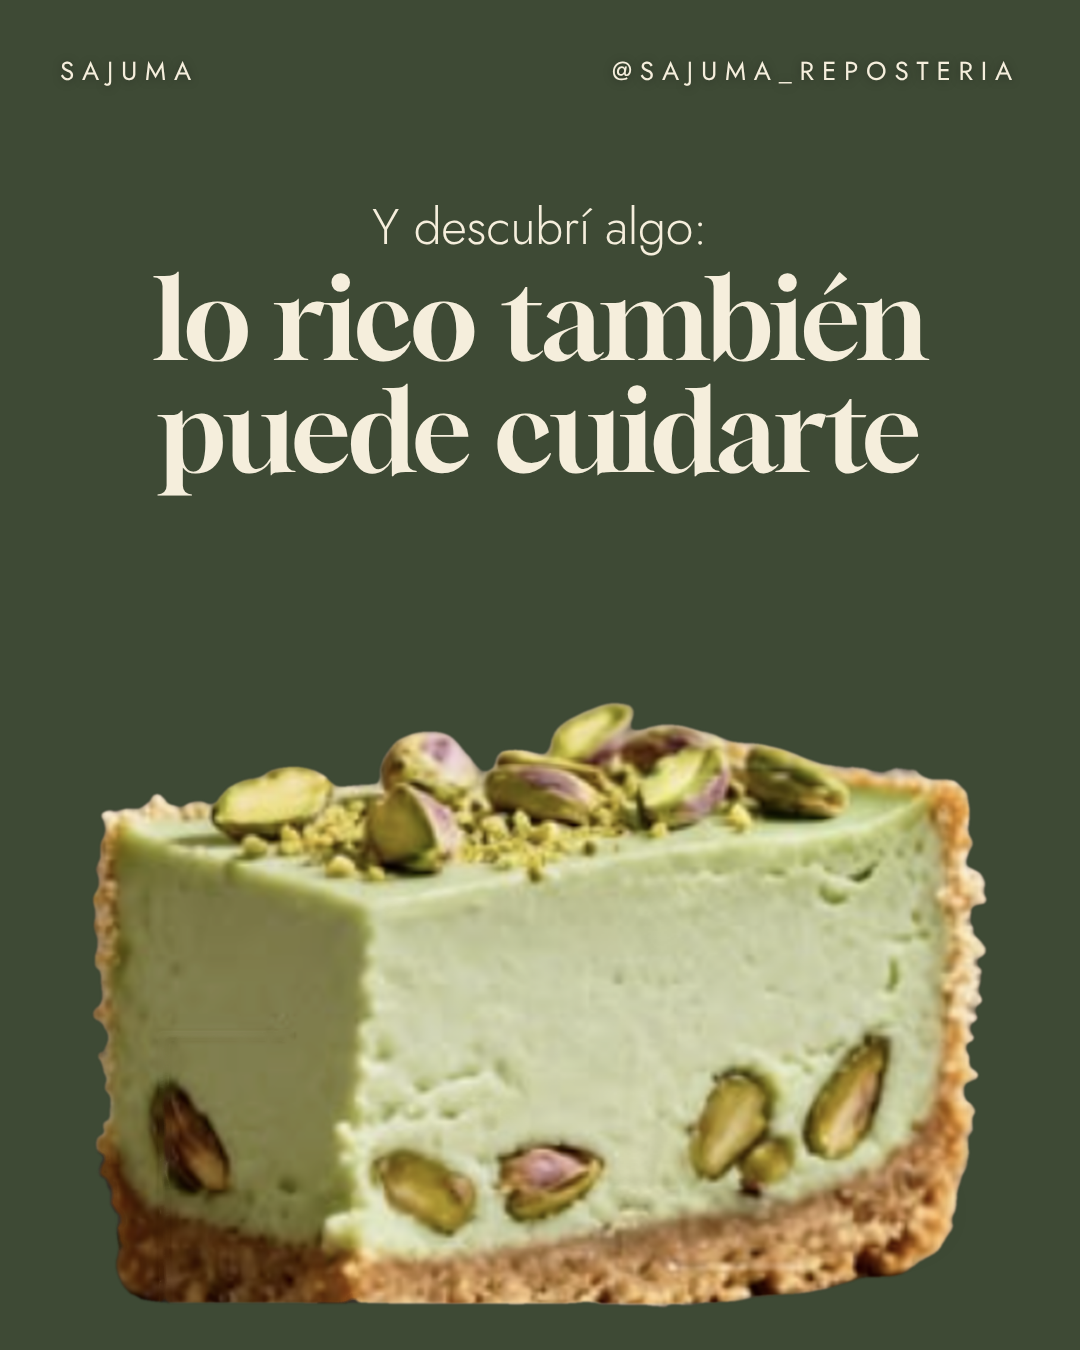
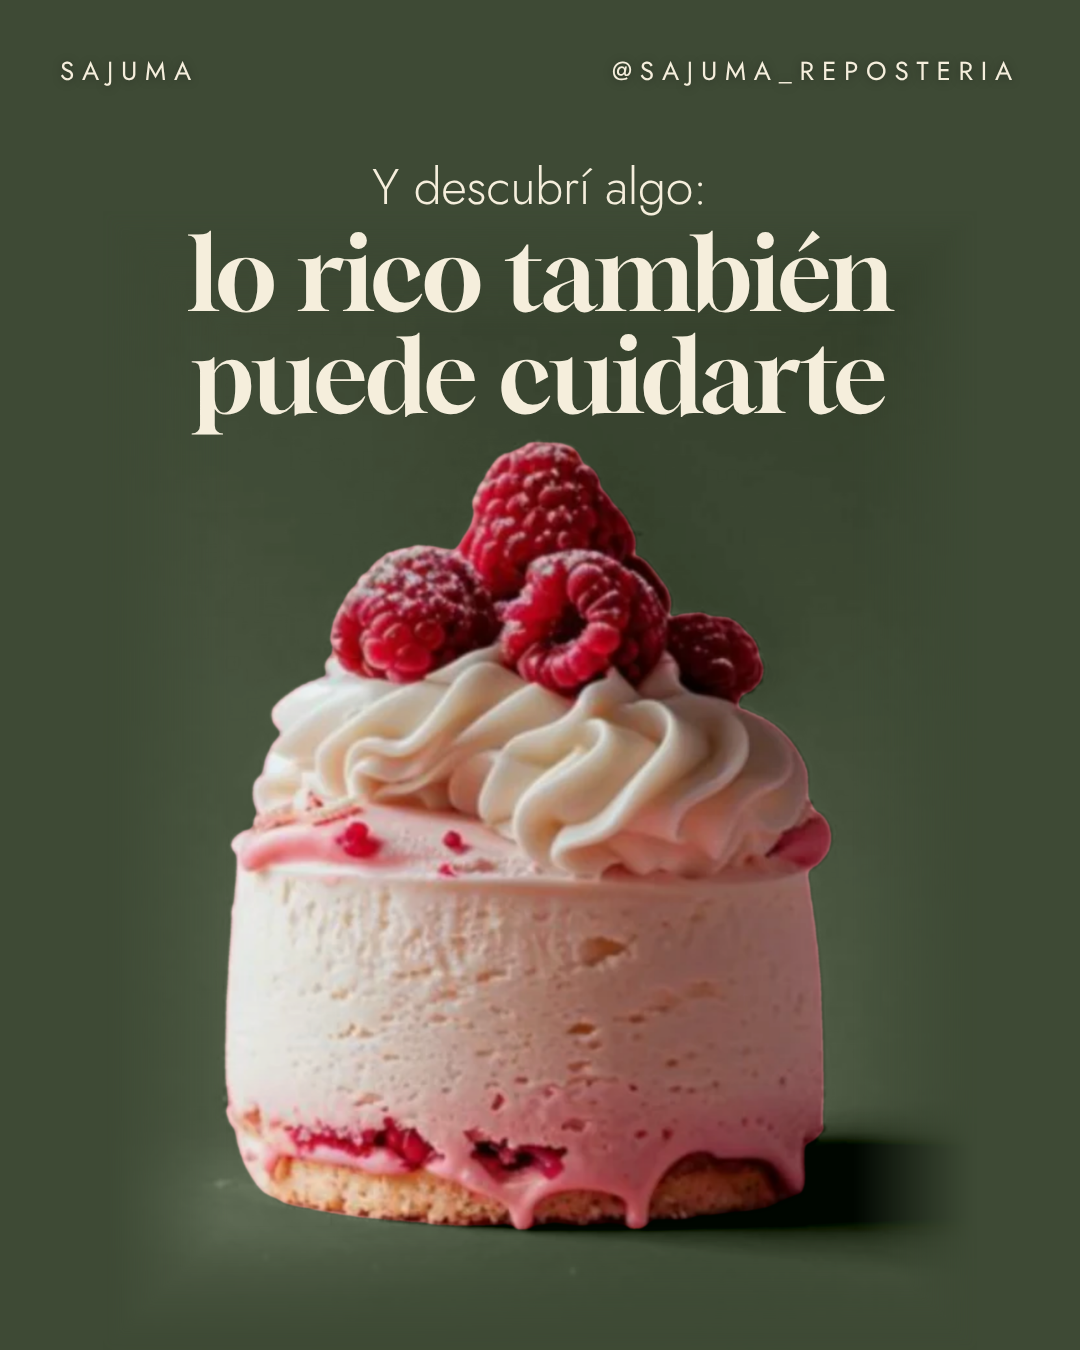
SAJUMA carrusel 1, pieza 5: foto original de frambuesas con la pared cambiada a verde
Claude-Session: https://claude.ai/code/session_018d4LXHkXweDJXxfN5x99dL

diff --git a/carruseles/sajuma-1-todo-empezo-en-mi-cocina/carrusel.html b/carruseles/sajuma-1-todo-empezo-en-mi-cocina/carrusel.html
@@ -21,11 +21,9 @@ body{background:#222;display:flex;flex-direction:column;align-items:center;gap:4
 </style></head><body><section class="slide" style="background:#3E4A35;color:#F5EEDC"><div class="photo" style="height:1350px;background-image:url(img/p1-fondo.jpg)"></div><div class="brand" style="color:#F5EEDC"><span>SAJUMA</span><span>@SAJUMA_REPOSTERIA</span></div>
 <div class="intro" style="top:190px;text-shadow:0 2px 16px rgba(0,0,0,.35)">Todo empezó con una pregunta…</div>
 <div class="big" style="top:255px;font-size:150px;text-shadow:0 3px 26px rgba(0,0,0,.35)">¿se lo<br>daría a<br>mis hijos?</div>
-<div class="cap" style="bottom:36px;font-size:26px;text-shadow:0 2px 12px rgba(0,0,0,.6)">DESLIZA →</div></section><section class="slide" style="background:#2a1d14"><div class="photo" style="height:1350px;background-image:url(img/full-02-familia.jpg)"></div><div class="scrim"></div><div class="topscrim"></div><div class="brand" style="color:#F5EEDC"><span>SAJUMA</span><span>@SAJUMA_REPOSTERIA</span></div><div class="over"><div class="g" style="font-size:150px">Soy Miryam.</div><div class="t1" style="font-size:60px;margin-top:14px">Mamá antes que pastelera.</div></div></section><section class="slide" style="background:#2a1d14"><div class="photo" style="height:1350px;background-image:url(img/full-03-mesa-familiar.jpg)"></div><div class="scrim"></div><div class="topscrim"></div><div class="brand" style="color:#F5EEDC"><span>SAJUMA</span><span>@SAJUMA_REPOSTERIA</span></div><div class="over"><div class="t1" style="font-size:62px">Quería que en casa celebráramos con postre… sin descuidar lo que más amo: su salud.</div></div></section><section class="slide" style="background:#2a1d14"><div class="photo" style="height:1350px;background-image:url(img/full-04-ingredientes.jpg)"></div><div class="scrim"></div><div class="topscrim"></div><div class="brand" style="color:#F5EEDC"><span>SAJUMA</span><span>@SAJUMA_REPOSTERIA</span></div><div class="over"><div class="t1" style="font-size:58px">Así que empecé a cambiar ingredientes.</div><div class="g" style="font-size:150px;margin-top:10px">uno por uno.</div></div></section><section class="slide" style="background:#3E4A35;color:#F5EEDC"><div class="brand" style="color:#F5EEDC"><span>SAJUMA</span><span>@SAJUMA_REPOSTERIA</span></div>
-<div class="intro" style="top:190px;font-size:50px">Y descubrí algo:</div>
-<div class="big" style="top:262px;font-size:112px;line-height:1">lo rico también<br>puede cuidarte</div>
-<div class="shadow" style="left:150px;top:1180px;width:780px;opacity:.6"></div>
-<img class="hero" src="img/cheesecake-pistacho.png" style="left:90px;top:700px;width:900px"></section><section class="slide" style="background:#3E4A35;color:#F5EEDC"><img class="hero" src="img/cupcake-mano-verde-fade.png" style="left:201px;top:0;width:677px;z-index:1"><div class="brand" style="color:#F5EEDC"><span>SAJUMA</span><span>@SAJUMA_REPOSTERIA</span></div>
+<div class="cap" style="bottom:36px;font-size:26px;text-shadow:0 2px 12px rgba(0,0,0,.6)">DESLIZA →</div></section><section class="slide" style="background:#2a1d14"><div class="photo" style="height:1350px;background-image:url(img/full-02-familia.jpg)"></div><div class="scrim"></div><div class="topscrim"></div><div class="brand" style="color:#F5EEDC"><span>SAJUMA</span><span>@SAJUMA_REPOSTERIA</span></div><div class="over"><div class="g" style="font-size:150px">Soy Miryam.</div><div class="t1" style="font-size:60px;margin-top:14px">Mamá antes que pastelera.</div></div></section><section class="slide" style="background:#2a1d14"><div class="photo" style="height:1350px;background-image:url(img/full-03-mesa-familiar.jpg)"></div><div class="scrim"></div><div class="topscrim"></div><div class="brand" style="color:#F5EEDC"><span>SAJUMA</span><span>@SAJUMA_REPOSTERIA</span></div><div class="over"><div class="t1" style="font-size:62px">Quería que en casa celebráramos con postre… sin descuidar lo que más amo: su salud.</div></div></section><section class="slide" style="background:#2a1d14"><div class="photo" style="height:1350px;background-image:url(img/full-04-ingredientes.jpg)"></div><div class="scrim"></div><div class="topscrim"></div><div class="brand" style="color:#F5EEDC"><span>SAJUMA</span><span>@SAJUMA_REPOSTERIA</span></div><div class="over"><div class="t1" style="font-size:58px">Así que empecé a cambiar ingredientes.</div><div class="g" style="font-size:150px;margin-top:10px">uno por uno.</div></div></section><section class="slide" style="background:#3E4A35;color:#F5EEDC"><img class="hero" src="img/p5-frambuesa.png" style="left:103px;top:211px;width:874px;z-index:1"><div class="brand" style="color:#F5EEDC"><span>SAJUMA</span><span>@SAJUMA_REPOSTERIA</span></div>
+<div class="intro" style="top:150px;font-size:50px">Y descubrí algo:</div>
+<div class="big" style="top:222px;font-size:102px;line-height:1;z-index:4">lo rico también<br>puede cuidarte</div></section><section class="slide" style="background:#3E4A35;color:#F5EEDC"><img class="hero" src="img/cupcake-mano-verde-fade.png" style="left:201px;top:0;width:677px;z-index:1"><div class="brand" style="color:#F5EEDC"><span>SAJUMA</span><span>@SAJUMA_REPOSTERIA</span></div>
 <div class="over" style="bottom:90px"><div class="t1" style="font-size:62px">Si era bueno para mi familia, podía ser bueno para la tuya.</div></div></section><section class="slide" style="background:#F5EEDC;color:#3E4A35"><div class="brand" style="color:#3E4A35"><span>SAJUMA</span><span>@SAJUMA_REPOSTERIA</span></div>
 <div class="intro" style="top:330px;font-size:60px;color:#2a2a24">Así nació</div>
 <img src="ref/sajuma-logo-transparente.png" style="position:absolute;left:150px;top:440px;width:780px">

diff --git a/carruseles/sajuma-1-todo-empezo-en-mi-cocina/p5_fondo.py b/carruseles/sajuma-1-todo-empezo-en-mi-cocina/p5_fondo.py
@@ -1,0 +1,26 @@
+"""Pieza 5: cambia SOLO la pared rosada de ref/pieza5-frambuesa.webp a verde olivo (luz y sombra originales) -> img/p5-frambuesa.png (bordes difuminados al verde)"""
+import numpy as np, cv2, os
+from PIL import Image
+from rembg import remove, new_session
+os.chdir(os.path.dirname(os.path.abspath(__file__)))
+SR='/tmp/claude-0/-home-user/a313ded0-1d40-59bc-812f-5f47f2864937/scratchpad/sr/EDSR_x4.pb'
+im=Image.open('ref/pieza5-frambuesa.webp').convert('RGB'); src=cv2.cvtColor(np.array(im),cv2.COLOR_RGB2BGR)
+sr=cv2.dnn_superres.DnnSuperResImpl_create(); sr.readModel(SR); sr.setModel('edsr',4)
+big=sr.upsample(src); H,W=big.shape[:2]
+al=np.array(remove(Image.fromarray(cv2.cvtColor(big,cv2.COLOR_BGR2RGB)),session=new_session('u2net')))[...,3]>128
+n,lab,st,_=cv2.connectedComponentsWithStats(al.astype(np.uint8)); cake=(lab==(np.argmax(st[1:,4])+1)).astype(np.uint8)
+cake=cv2.morphologyEx(cake,cv2.MORPH_CLOSE,np.ones((9,9),np.uint8))
+pm=cv2.GaussianBlur(cake.astype(np.float32),(0,0),2.2)[...,None]
+lab=cv2.cvtColor(big,cv2.COLOR_BGR2LAB).astype(np.float32)
+Lm=lab[...,0][cake==0].mean()
+tgt=cv2.cvtColor(np.uint8([[[53,74,62]]]),cv2.COLOR_BGR2LAB)[0,0].astype(np.float32)     # #3E4A35
+new=lab.copy(); new[...,0]=tgt[0]+(lab[...,0]-Lm)*0.9; new[...,1]=tgt[1]; new[...,2]=tgt[2]
+rec=cv2.cvtColor(np.clip(new,0,255).astype(np.uint8),cv2.COLOR_LAB2BGR).astype(np.float32)
+out=np.clip(big.astype(np.float32)*pm+rec*(1-pm),0,255).astype(np.uint8)
+# alfa: bordes que se funden con el verde de la slide
+a=np.ones((H,W),np.float32); F=int(W*0.14)
+for i in range(F):
+    t=(i/F)**1.2; a[i,:]=np.minimum(a[i,:],t); a[:,i]=np.minimum(a[:,i],t); a[:,W-1-i]=np.minimum(a[:,W-1-i],t); a[H-1-i,:]=np.minimum(a[H-1-i,:],t)
+a=cv2.GaussianBlur(a,(0,0),8)
+cv2.imwrite('img/p5-frambuesa.png',np.dstack([out,(a*255).astype(np.uint8)]))
+cv2.imwrite('/tmp/claude-0/-home-user/a313ded0-1d40-59bc-812f-5f47f2864937/scratchpad/p5-prev.png',cv2.resize(out,(W//4,H//4)))

diff --git a/carruseles/sajuma-1-todo-empezo-en-mi-cocina/generar.py b/carruseles/sajuma-1-todo-empezo-en-mi-cocina/generar.py
@@ -18,11 +18,9 @@ S.append(full('full-03-mesa-familiar.jpg','<div class="t1" style="font-size:62px
 # 4
 S.append(full('full-04-ingredientes.jpg','<div class="t1" style="font-size:58px">Así que empecé a cambiar ingredientes.</div><div class="g" style="font-size:150px;margin-top:10px">uno por uno.</div>'))
 # 5
-S.append(f'''<section class="slide" style="background:#3E4A35;color:#F5EEDC">{brand()}
-<div class="intro" style="top:190px;font-size:50px">Y descubrí algo:</div>
-<div class="big" style="top:262px;font-size:112px;line-height:1">lo rico también<br>puede cuidarte</div>
-<div class="shadow" style="left:150px;top:1180px;width:780px;opacity:.6"></div>
-<img class="hero" src="img/cheesecake-pistacho.png" style="left:90px;top:700px;width:900px"></section>''')
+S.append(f'''<section class="slide" style="background:#3E4A35;color:#F5EEDC"><img class="hero" src="img/p5-frambuesa.png" style="left:103px;top:211px;width:874px;z-index:1">{brand()}
+<div class="intro" style="top:150px;font-size:50px">Y descubrí algo:</div>
+<div class="big" style="top:222px;font-size:102px;line-height:1;z-index:4">lo rico también<br>puede cuidarte</div></section>''')
 # 6
 S.append(f'''<section class="slide" style="background:#3E4A35;color:#F5EEDC"><img class="hero" src="img/cupcake-mano-verde-fade.png" style="left:201px;top:0;width:677px;z-index:1">{brand()}
 <div class="over" style="bottom:90px"><div class="t1" style="font-size:62px">Si era bueno para mi familia, podía ser bueno para la tuya.</div></div></section>''')
